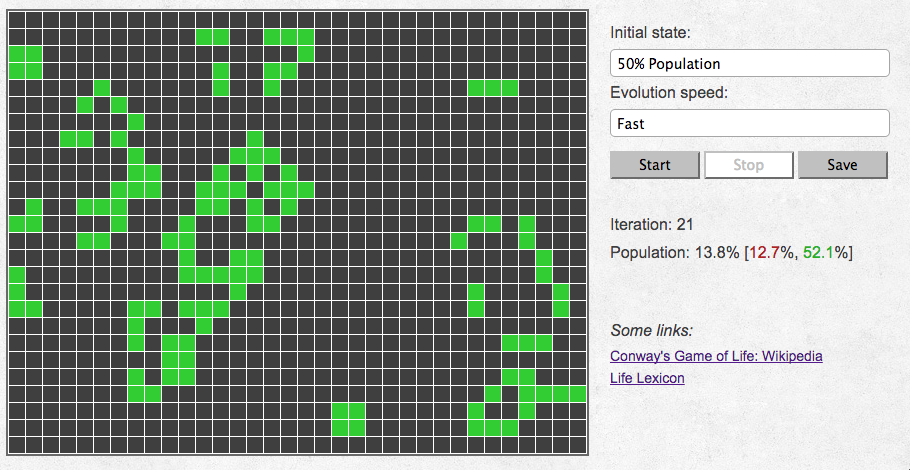
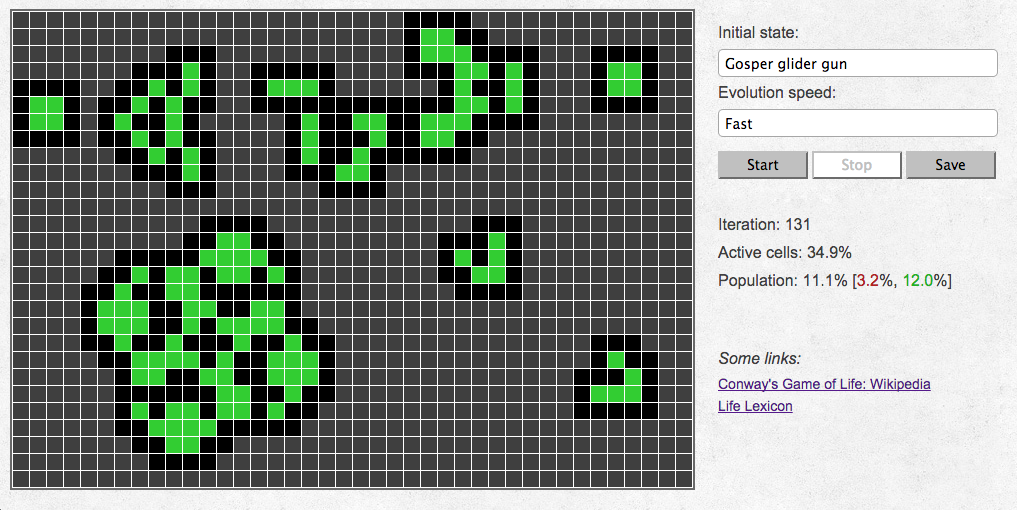
0.10.4

diff --git a/app/gmap.js b/app/gmap.js
@@ -14,6 +14,8 @@ define("app/gmap", ["jquery"], function($) {
         cclass_target: "gmap_container",
         /** @type {String} класс живой клетки */
         cclass_isalive: "isAlive",
+        /** @type {String} класс подозрительной клетки */
+        cclass_isactive: "isActive",
         /** @type {integer} размер узла в пикселях */
         node_size: 17,
         /**
@@ -68,6 +70,18 @@ define("app/gmap", ["jquery"], function($) {
         /** @type {Array} набор подозрительных клеток */
         var active = [];
 
+        /** @type {Object} статус игрового поля */
+        var state = {
+            /** @type {integer} количество живых клеток */
+            count_alive: 0,
+            /** @type {integer} количество активных клеток */
+            count_active: 0,
+            /** @type {integer} изменилось клеток (по предыдущему шагу) */
+            count_changed: 0,
+            /** @type {integer} общее количество клеток */
+            capacity: 0
+        };
+
         // Приватные методы ================================================
         /**
          * Применить статус к представлению
@@ -102,16 +116,6 @@ define("app/gmap", ["jquery"], function($) {
         }
 
         /**
-         * Получить количество живых клеток
-         * @return {integer} количество живых клеток
-         */
-        function getAliveCount() {
-            return map.filter(function(currentNode) {
-                return currentNode.cur;
-            }).length;
-        }
-
-        /**
          * Получить набор подозрительных клеток
          * @return {integer} количество активных клеток
          */
@@ -131,12 +135,27 @@ define("app/gmap", ["jquery"], function($) {
             // фомрирование набора подозрительных клеток
             active = [];
             map.forEach(function(currentNode) {
+                currentNode.$el.toggleClass(settings.cclass_isactive, currentNode.active);
                 if (currentNode.active) {
                     active.push(currentNode);
                 }
             });
             // вернуть количество
             return active.length;
+        }
+
+        /**
+         * Обновить информацию о состоянии системы
+         * @return {Object} текущее состояние системы
+         */
+        function updateState() {
+            state.count_alive = map.filter(function(currentNode) {
+                return currentNode.cur;
+            }).length;
+            state.count_active = map.filter(function(currentNode) {
+                return currentNode.active;
+            }).length;;
+            return state;
         }
 
         // Инициализация ===================================================
@@ -151,6 +170,8 @@ define("app/gmap", ["jquery"], function($) {
         if (options.height > settings.max_height || options.width > settings.max_width) {
             throw "Map size can't be more than max size";
         }
+        // сохранить общее количество в объект состояния
+        state.capacity = options.width * options.height;
 
         // обработка контейнера
         $target.empty().toggleClass(settings.cclass_target, true);
@@ -205,7 +226,7 @@ define("app/gmap", ["jquery"], function($) {
                 var status = revNodeStatus(node);
                 getActiveNodes();
                 // вызов колбека
-                options.cb_revNodeStatus(node, index, status);
+                options.cb_revNodeStatus(node, index, status, updateState());
             }
         });
 
@@ -223,13 +244,10 @@ define("app/gmap", ["jquery"], function($) {
             },
             /**
              * Получить текущее состояние системы
-             * @return {Object} состояние
+             * @return {Object} состояние системы
              */
             getStatus: function() {
-                return {
-                    lived: getAliveCount(),
-                    capacity: options.height * options.width
-                }
+                return state;
             },
             /**
              * Очистить карту
@@ -242,19 +260,19 @@ define("app/gmap", ["jquery"], function($) {
             /**
              * Создание карты по заданному алгоритму (исходное состояние)
              * @param  {Object} algo используемый алгоритм
-             * @return {integer} количество живых клеток
+             * @return {Object} состояние карты
              */
             createMap: function(algo) {
                 map.forEach(function(currentNode, index) {
                     setNodeStatus(currentNode, algo(currentNode, index));
                 });
                 getActiveNodes();
-                // вернуть количество живых
-                return getAliveCount();
+                // вернуть состояние
+                return updateState();
             },
             /**
              * Следующий шаг эволюции
-             * @return {integer} количество затронутых клеток
+             * @return {Object} состояние карты
              */
             nextStep: function() {
                 var changed = 0;
@@ -273,8 +291,9 @@ define("app/gmap", ["jquery"], function($) {
                 });
                 // сохранить массив подозрительных клеток
                 getActiveNodes();
-                // вернуть количество затронутых
-                return changed;
+                // вернуть состояние
+                state.count_changed = changed;
+                return updateState();
             },
             /**
              * Получить набор живых клеток

diff --git a/app/game.js b/app/game.js
@@ -70,11 +70,12 @@ define("app/game", ["jquery", "app/gmap", "app/basic"], function($, Gmap, Basic)
             cb_canRevNodeStatus: function() {
                 return !state.isrun;
             },
-            cb_revNodeStatus: function(node, index, status) {
+            cb_revNodeStatus: function(node, index, status, gmap_status) {
                 // счетчик живых узлов
                 if (status) state.lived_cur++;
                 else state.lived_cur--;
                 getExtremes();
+                state.active = gmap_status.active;
                 // вызов колбека для обновления информации
                 options.cb_useStatus(getStatus());
             }
@@ -90,6 +91,8 @@ define("app/game", ["jquery", "app/gmap", "app/basic"], function($, Gmap, Basic)
             isrun: false,
             /** @type {integer} емкость игрового поля */
             capacity: 0,
+            /** @type {integer} количество активных клеток */
+            active: 0,
             /** @type {integer} минимальное число живых клеток */
             lived_min: 0,
             /** @type {integer} максимальное число живых клеток */
@@ -151,6 +154,7 @@ define("app/game", ["jquery", "app/gmap", "app/basic"], function($, Gmap, Basic)
          */
         function getStatus() {
             return {
+                active: state.active,
                 capacity: state.capacity,
                 lived_min: state.lived_min,
                 lived_max: state.lived_max,
@@ -180,12 +184,12 @@ define("app/game", ["jquery", "app/gmap", "app/basic"], function($, Gmap, Basic)
                     throw "Undefined algorithm for the initial state";
                 }
                 // создание игрового поля
-                gmap.fn.createMap(settings.algos[algo.name].call(gmap, algo.arg));
+                var gmap_state = gmap.fn.createMap(settings.algos[algo.name].call(gmap, algo.arg));
                 // реквизиты игры
-                var gmap_status = gmap.fn.getStatus();
                 state.algo = algo;
-                state.capacity = gmap_status.capacity;
-                state.lived_cur = state.lived_min = state.lived_max = gmap_status.lived;
+                state.capacity = gmap_state.capacity;
+                state.lived_cur = state.lived_min = state.lived_max = gmap_state.count_alive;
+                state.active = gmap_state.count_active;
                 // колбек обработки статуса
                 options.cb_useStatus(getStatus());
             },
@@ -200,8 +204,9 @@ define("app/game", ["jquery", "app/gmap", "app/basic"], function($, Gmap, Basic)
                     state.steps_count++;
                     state.time_passed += state.period;
                     // следующий шаг
-                    gmap.fn.nextStep();
-                    state.lived_cur = gmap.fn.getStatus().lived;
+                    var gmap_state = gmap.fn.nextStep();
+                    state.lived_cur = gmap_state.count_alive;
+                    state.active = gmap_state.count_active;
                     getExtremes();
                     // колбек обработки статуса
                     options.cb_useStatus(getStatus());

diff --git a/app/main.js b/app/main.js
@@ -22,6 +22,8 @@ define("app/main", ["jquery", "app/game"], function($, Game) {
             $control_save: $("#form_control button[name='save']"),
             /** @type {jQuery} вывод количества шагов */
             $span_steps: $("#form_status span[name='steps']"),
+            /** @type {jQuery} вывод значения активных клеток */
+            $span_active: $("#form_status span[name='active']"),
             /** @type {jQuery} вывод текущей популяции */
             $span_cur: $("#form_status span[name='population']"),
             /** @type {jQuery} вывод минимальной популяции */
@@ -56,6 +58,7 @@ define("app/main", ["jquery", "app/game"], function($, Game) {
         var G = new Game(Int.$target, {
             cb_useStatus: function(status) {
                 Int.$span_steps.text(status.steps_count);
+                Int.$span_active.text(Int.fn.toPercent(status.active / status.capacity));
                 Int.$span_cur.text(Int.fn.toPercent(status.lived_cur / status.capacity));
                 Int.$span_min.text(Int.fn.toPercent(status.lived_min / status.capacity));
                 Int.$span_max.text(Int.fn.toPercent(status.lived_max / status.capacity));

diff --git a/index.html b/index.html
@@ -42,6 +42,7 @@
         </form>
         <form id="form_status">
             <p>Iteration: <span name="steps">0</span></p>
+            <p>Active cells: <span name="active">0.0</span>%</p>
             <p>Population: <span name="population">0.0</span>% [<span name="pop_min">0.0</span>%, <span name="pop_max">0.0</span>%]</p>
         </form>
         <div id="form_links">

diff --git a/style/main.css b/style/main.css
@@ -84,6 +84,9 @@ body {
 .gmap_container td.isAlive {
     background: rgba(50,205,50,1);
 }
+.gmap_container td.isActive:not(.isAlive) {
+    background: black;
+}
 #form_links {
     padding-top: 20px;
 }
